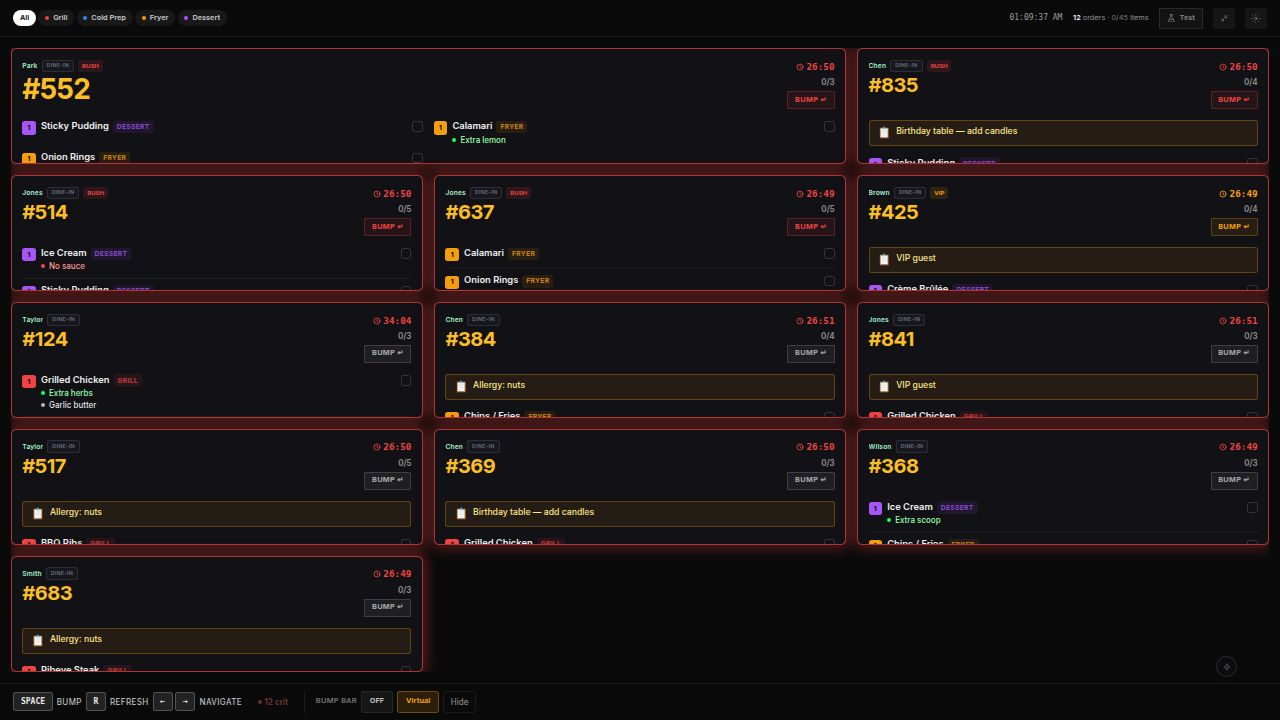
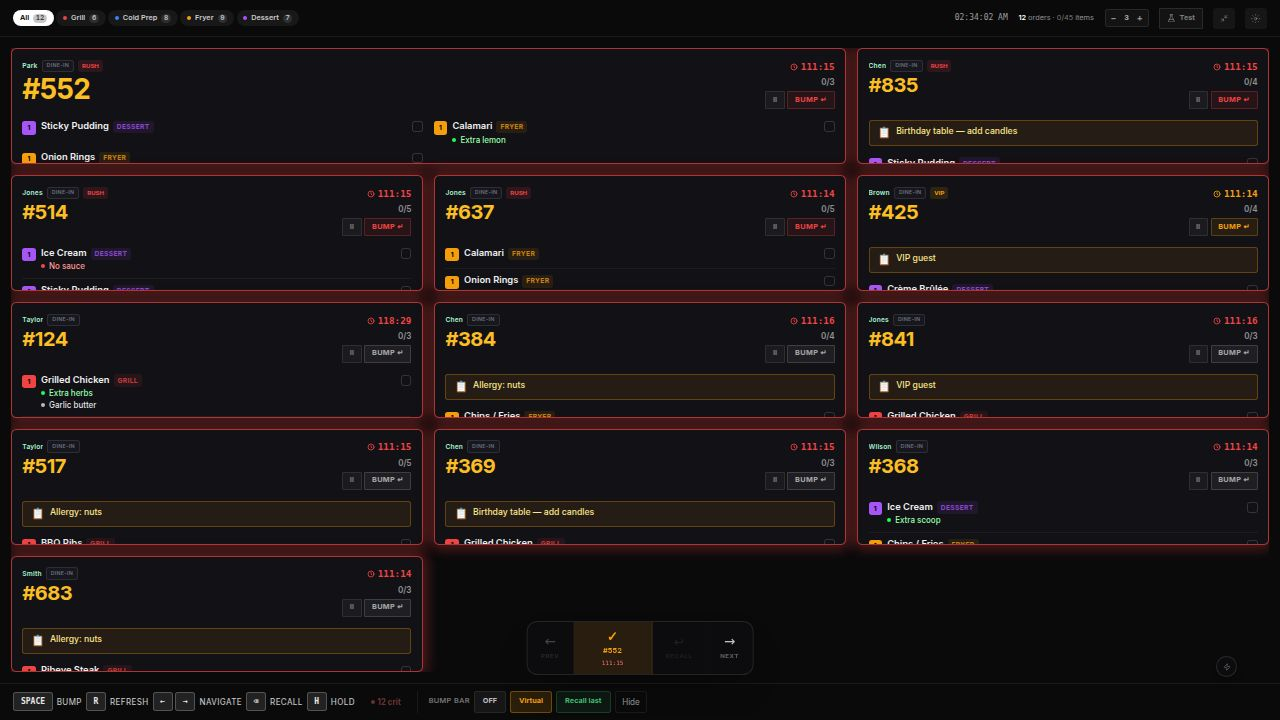
Enhance order processing and add customizable footer appearance
Implement transaction handling for order creation, increase order retrieval limits, tune database connection pooling, enforce request size limits, add rate limiting to sensitive endpoints, and introduce customizable footer background and accent colors in the template builder.

Replit-Commit-Author: Agent
Replit-Commit-Session-Id: b1d019c3-033e-473d-a585-4dcab55ead26
Replit-Commit-Checkpoint-Type: full_checkpoint
Replit-Commit-Event-Id: c192ee70-0e50-4411-bd1b-7257e602c65b
Replit-Commit-Screenshot-Url: https://storage.googleapis.com/screenshot-production-us-central1/90dcdbf0-0649-4dd1-be85-010ba88aa30c/b1d019c3-033e-473d-a585-4dcab55ead26/y2UccWN
Replit-Helium-Checkpoint-Created: true

diff --git a/artifacts/kds/src/pages/template-builder.tsx b/artifacts/kds/src/pages/template-builder.tsx
@@ -42,6 +42,8 @@ type Template = {
   showNotes: boolean;
   showOrderNumber: boolean;
   showCustomerName: boolean;
+  footerBg?: string | null;
+  footerAccentColor?: string | null;
 };
 
 // ─── Meta ─────────────────────────────────────────────────────────────────────
@@ -358,6 +360,90 @@ function ZonePanel({ zone, onChange }: { zone: Zone; onChange: (z: Zone) => void
             </div>
           </div>
         </div>
+      </div>
+    </div>
+  );
+}
+
+// ─── Footer Appearance Panel ──────────────────────────────────────────────────
+
+function FooterAppearanceSection({ template, onChange }: { template: Template; onChange: (t: Template) => void }) {
+  const set = <K extends keyof Template>(k: K, v: Template[K]) => onChange({ ...template, [k]: v });
+  const bg     = template.footerBg ?? "";
+  const accent = template.footerAccentColor ?? "";
+
+  return (
+    <div className="flex flex-col gap-4">
+      <div>
+        <p className="text-[10px] font-bold uppercase tracking-[0.18em] text-white/55 mb-0.5">Footer Appearance</p>
+        <p className="text-[10px] text-white/35 leading-relaxed">
+          Override the footer bar colors on KDS displays. Leave blank to inherit the active theme.
+        </p>
+      </div>
+
+      {/* Background */}
+      <div className="flex flex-col gap-2 p-3 rounded-xl border"
+        style={{ background: "rgba(255,255,255,0.02)", borderColor: "rgba(255,255,255,0.07)" }}>
+        <p className="text-[11px] font-bold text-white/75">Background</p>
+        <div className="flex items-center gap-2">
+          <span className="text-[10px] text-white/50 w-14 shrink-0">Color</span>
+          <ColorSwatch
+            value={bg || "#0a0a0b"}
+            onChange={v => set("footerBg", v)}
+          />
+          <HexInput
+            value={bg}
+            onChange={v => set("footerBg", v || null)}
+          />
+          {bg && (
+            <button onClick={() => set("footerBg", null)}
+              className="text-[10px] text-white/35 hover:text-white/55 transition-colors shrink-0">
+              ✕ Clear
+            </button>
+          )}
+        </div>
+        {bg && (
+          <div className="flex items-center gap-2 mt-1 rounded-lg px-3 py-2 border border-white/[0.1]" style={{ background: bg }}>
+            <span className="text-[11px] text-white/60">Preview</span>
+            <span className="text-[10px] text-white/40 font-mono">{bg}</span>
+          </div>
+        )}
+        {!bg && (
+          <p className="text-[10px] text-white/25 italic">Using theme background</p>
+        )}
+      </div>
+
+      {/* Accent */}
+      <div className="flex flex-col gap-2 p-3 rounded-xl border"
+        style={{ background: "rgba(255,255,255,0.02)", borderColor: "rgba(255,255,255,0.07)" }}>
+        <p className="text-[11px] font-bold text-white/75">Accent Color</p>
+        <p className="text-[9px] text-white/35 italic mb-1">Used for bump bar buttons and active state highlights</p>
+        <div className="flex items-center gap-2">
+          <span className="text-[10px] text-white/50 w-14 shrink-0">Color</span>
+          <ColorSwatch
+            value={accent || "#f59e0b"}
+            onChange={v => set("footerAccentColor", v)}
+          />
+          <HexInput
+            value={accent}
+            onChange={v => set("footerAccentColor", v || null)}
+          />
+          {accent && (
+            <button onClick={() => set("footerAccentColor", null)}
+              className="text-[10px] text-white/35 hover:text-white/55 transition-colors shrink-0">
+              ✕ Clear
+            </button>
+          )}
+        </div>
+        <div className="flex items-center gap-1.5 mt-1">
+          <span className="w-2 h-2 rounded-full shrink-0" style={{ background: accent || "#f59e0b" }} />
+          <span className="text-[11px] font-bold" style={{ color: accent || "#f59e0b" }}>
+            Bump bar active state preview
+          </span>
+        </div>
+        {!accent && (
+          <p className="text-[10px] text-white/25 italic">Using default amber (#f59e0b)</p>
+        )}
       </div>
     </div>
   );
@@ -810,7 +896,12 @@ export default function TemplateBuilderPage() {
             ) : rightPanel === "global" ? (
               <GlobalPanel template={template} onChange={updateTemplate} />
             ) : (
-              <ModifierColorsPanel />
+              <div className="flex flex-col gap-6">
+                <FooterAppearanceSection template={template} onChange={updateTemplate} />
+                <div className="border-t border-white/[0.07] pt-5">
+                  <ModifierColorsPanel />
+                </div>
+              </div>
             )}
           </div>
         </div>

diff --git a/artifacts/api-server/src/routes/orders.ts b/artifacts/api-server/src/routes/orders.ts
@@ -9,6 +9,7 @@ import {
 } from "@workspace/api-zod";
 import { randomUUID } from "crypto";
 import { broadcast } from "../lib/ws";
+import { strictLimiter } from "../middleware/rate-limit";
 
 const router = Router();
 
@@ -41,7 +42,7 @@ router.get("/orders", async (req, res): Promise<void> => {
     .from(ordersTable)
     .where(conditions.length > 0 ? and(...conditions) : undefined)
     .orderBy(desc(ordersTable.createdAt))
-    .limit(100);
+    .limit(500);
 
   // Attach items
   if (orders.length === 0) {
@@ -89,52 +90,56 @@ router.get("/orders", async (req, res): Promise<void> => {
 
 router.post("/orders", async (req, res): Promise<void> => {
   const body = CreateOrderBody.parse(req.body);
-  const orderId = randomUUID();
-  const [order] = await db
-    .insert(ordersTable)
-    .values({
-      id: orderId,
-      storeId: body.storeId,
-      posOrderId: body.posOrderId ?? null,
-      orderNumber: body.orderNumber,
-      status: "pending",
-      priority: body.priority ?? "normal",
-      customerName: body.customerName ?? null,
-      notes: body.notes ?? null,
-    })
-    .returning();
 
-  const items = await Promise.all(
-    (body.items ?? []).map((item, idx) =>
-      db
-        .insert(orderItemsTable)
-        .values({
-          id: randomUUID(),
-          orderId,
-          stationId: item.stationId,
-          name: item.name,
-          quantity: item.quantity,
-          modifiers: item.modifiers ?? [],
-          notes: item.notes ?? null,
-          status: "pending",
-          sortOrder: item.sortOrder ?? idx,
-        })
-        .returning()
-        .then((r) => r[0]),
-    ),
-  );
+  const { order, items } = await db.transaction(async (tx) => {
+    const orderId = randomUUID();
+    const [order] = await tx
+      .insert(ordersTable)
+      .values({
+        id: orderId,
+        storeId: body.storeId,
+        posOrderId: body.posOrderId ?? null,
+        orderNumber: body.orderNumber,
+        status: "pending",
+        priority: body.priority ?? "normal",
+        customerName: body.customerName ?? null,
+        notes: body.notes ?? null,
+      })
+      .returning();
+
+    const itemRows = (body.items ?? []).length > 0
+      ? await tx
+          .insert(orderItemsTable)
+          .values(
+            (body.items ?? []).map((item, idx) => ({
+              id: randomUUID(),
+              orderId,
+              stationId: item.stationId,
+              name: item.name,
+              quantity: item.quantity,
+              modifiers: item.modifiers ?? [],
+              notes: item.notes ?? null,
+              status: "pending" as const,
+              sortOrder: item.sortOrder ?? idx,
+            })),
+          )
+          .returning()
+      : [];
+
+    return { order, items: itemRows };
+  });
 
   const result = { ...order, items, elapsedSeconds: 0 };
 
   broadcast({
     type: "order_created",
-    payload: { orderId, storeId: body.storeId, orderNumber: body.orderNumber },
+    payload: { orderId: order.id, storeId: body.storeId, orderNumber: body.orderNumber },
   });
 
   res.status(201).json(result);
 });
 
-router.post("/orders/clear-all", async (req, res): Promise<void> => {
+router.post("/orders/clear-all", strictLimiter, async (req, res): Promise<void> => {
   const storeId = req.query.storeId as string | undefined;
 
   const conditions = [inArray(ordersTable.status, ["in_progress", "pending"] as const)];
@@ -228,11 +233,12 @@ router.patch("/orders/:id", async (req, res): Promise<void> => {
   res.json(result);
 });
 
-router.post("/orders/:id/bump", async (req, res): Promise<void> => {
+router.post("/orders/:id/bump", strictLimiter, async (req, res): Promise<void> => {
+  const orderId = req.params["id"] as string;
   const [order] = await db
     .select()
     .from(ordersTable)
-    .where(eq(ordersTable.id, req.params.id));
+    .where(eq(ordersTable.id, orderId));
   if (!order) {
     res.status(404).json({ error: "Not found" });
     return;
@@ -240,14 +246,14 @@ router.post("/orders/:id/bump", async (req, res): Promise<void> => {
   const [bumped] = await db
     .update(ordersTable)
     .set({ status: "completed", completedAt: new Date() })
-    .where(eq(ordersTable.id, req.params.id))
+    .where(eq(ordersTable.id, orderId))
     .returning();
   // Mark all items ready
   await db
     .update(orderItemsTable)
     .set({ status: "ready" })
     .where(
-      and(eq(orderItemsTable.orderId, req.params.id), eq(orderItemsTable.status, "pending")),
+      and(eq(orderItemsTable.orderId, orderId), eq(orderItemsTable.status, "pending")),
     );
   const result = await getOrderWithItems(bumped.id);
   broadcast({

diff --git a/artifacts/kds/src/pages/index.tsx b/artifacts/kds/src/pages/index.tsx
@@ -57,6 +57,9 @@ type KdsConfig = {
   showStats: boolean;
   showAgeHeatmap: boolean;
   showFooter: boolean;
+  footerBg?: string | null;
+  footerTextColor?: string | null;
+  footerAccentColor?: string | null;
   showNowServing: boolean;
   showRecentBumped: boolean;
   nowServingExpirySec: number;
@@ -126,6 +129,9 @@ const DEFAULT_CFG: KdsConfig = {
   showStats: false,
   showAgeHeatmap: false,
   showFooter: true,
+  footerBg: null,
+  footerTextColor: null,
+  footerAccentColor: null,
   showNowServing: true,
   showRecentBumped: true,
   nowServingExpirySec: 45,
@@ -1811,6 +1817,11 @@ export default function KdsDisplay() {
   const statsAvg   = allOrders.length ? Math.round(allOrders.reduce((a, o) => a + o.elapsedSec, 0) / allOrders.length) : 0;
   function fmtSec(s: number) { const m = Math.floor(s / 60); return `${m}:${String(s % 60).padStart(2, "0")}`; }
 
+  // Footer accent colour — falls back to amber if not configured
+  const footerAccent = cfg.footerAccentColor ?? "#f59e0b";
+  const footerAccentFaint  = /^#[0-9a-fA-F]{6}$/.test(footerAccent) ? footerAccent + "24" : "rgba(245,158,11,0.14)";
+  const footerAccentBorder = /^#[0-9a-fA-F]{6}$/.test(footerAccent) ? footerAccent + "59" : "rgba(245,158,11,0.35)";
+
   const theme = THEME_META[cfg.theme] ?? THEME_META.ink;
 
   return (
@@ -2184,7 +2195,7 @@ export default function KdsDisplay() {
 
       {/* ── Footer bump bar ──────────────────────────────────────────────── */}
       {cfg.showFooter && (
-        <footer className="min-h-14 flex items-center px-4 md:px-5 py-2 shrink-0 gap-4 md:gap-6 flex-wrap" style={{ background: theme.bg, borderTop: `1px solid ${theme.line}` }}>
+        <footer className="min-h-14 flex items-center px-4 md:px-5 py-2 shrink-0 gap-4 md:gap-6 flex-wrap" style={{ background: cfg.footerBg ?? theme.bg, borderTop: `1px solid ${theme.line}` }}>
           <div className="flex items-center gap-1.5 flex-wrap">
             {(() => {
               const bk = cfg.bumpKey === " " ? "SPACE" : cfg.bumpKey.length > 3 ? cfg.bumpKey : cfg.bumpKey.toUpperCase();
@@ -2252,13 +2263,13 @@ export default function KdsDisplay() {
             <button
               onClick={() => setCfg(c => ({ ...c, bumpBarEnabled: !c.bumpBarEnabled }))}
               className="h-8 px-3 rounded-lg text-[11px] font-bold border transition-all active:scale-95"
-              style={{ background: cfg.bumpBarEnabled ? "rgba(245,158,11,0.14)" : "rgba(255,255,255,0.05)", borderColor: cfg.bumpBarEnabled ? "rgba(245,158,11,0.35)" : "rgba(255,255,255,0.08)", color: cfg.bumpBarEnabled ? "#f59e0b" : "rgba(255,255,255,0.72)" }}>
+              style={{ background: cfg.bumpBarEnabled ? footerAccentFaint : "rgba(255,255,255,0.05)", borderColor: cfg.bumpBarEnabled ? footerAccentBorder : "rgba(255,255,255,0.08)", color: cfg.bumpBarEnabled ? footerAccent : "rgba(255,255,255,0.72)" }}>
               {cfg.bumpBarEnabled ? "ON" : "OFF"}
             </button>
             <button
               onClick={() => setCfg(c => ({ ...c, showVirtualBumpBar: !c.showVirtualBumpBar }))}
               className="h-8 px-3 rounded-lg text-[11px] font-bold border transition-all active:scale-95"
-              style={{ background: cfg.showVirtualBumpBar ? "rgba(245,158,11,0.14)" : "rgba(255,255,255,0.05)", borderColor: cfg.showVirtualBumpBar ? "rgba(245,158,11,0.35)" : "rgba(255,255,255,0.08)", color: cfg.showVirtualBumpBar ? "#f59e0b" : "rgba(255,255,255,0.72)" }}>
+              style={{ background: cfg.showVirtualBumpBar ? footerAccentFaint : "rgba(255,255,255,0.05)", borderColor: cfg.showVirtualBumpBar ? footerAccentBorder : "rgba(255,255,255,0.08)", color: cfg.showVirtualBumpBar ? footerAccent : "rgba(255,255,255,0.72)" }}>
               Virtual
             </button>
             <button

diff --git a/artifacts/api-server/src/lib/ws.ts b/artifacts/api-server/src/lib/ws.ts
@@ -48,8 +48,13 @@ export function setupWebSocketServer(server: Server): void {
     logger.info({ ip: req.socket.remoteAddress }, "WebSocket client connected");
 
     ws.on("message", (data) => {
+      const raw = data.toString();
+      if (raw.length > 65_536) {
+        logger.warn({ ip: req.socket.remoteAddress }, "WS message too large — ignoring");
+        return;
+      }
       try {
-        const msg = JSON.parse(data.toString());
+        const msg = JSON.parse(raw);
         if (msg.type === "register" && msg.payload?.deviceId) {
           const deviceId = msg.payload.deviceId as string;
           deviceRegistry.set(deviceId, ws);

diff --git a/lib/db/src/index.ts b/lib/db/src/index.ts
@@ -10,7 +10,12 @@ if (!process.env.DATABASE_URL) {
   );
 }
 
-export const pool = new Pool({ connectionString: process.env.DATABASE_URL });
+export const pool = new Pool({
+  connectionString: process.env.DATABASE_URL,
+  max: 20,
+  idleTimeoutMillis: 30_000,
+  connectionTimeoutMillis: 5_000,
+});
 export const db = drizzle(pool, { schema });
 
 export * from "./schema";

diff --git a/artifacts/api-server/src/app.ts b/artifacts/api-server/src/app.ts
@@ -44,8 +44,8 @@ app.use(cors({
     : true,
   credentials: true,
 }));
-app.use(express.json());
-app.use(express.urlencoded({ extended: true }));
+app.use(express.json({ limit: "512kb" }));
+app.use(express.urlencoded({ extended: true, limit: "512kb" }));
 
 // ── Rate limiting ─────────────────────────────────────────────────────────────
 // POS webhook routes get a generous limit to allow bursts (e.g. 20 simultaneous

diff --git a/replit.md b/replit.md
@@ -170,6 +170,12 @@ kds start / stop / restart / update
 - `vite.config.ts` must not throw when `PORT`/`BASE_PATH` are unset — Docker build stages run without them; use defaults instead
 - CORS: `app.use(cors())` is wide-open by default. For locked-down deployments, set `CORS_ORIGIN` env var to restrict origins
 - Device status (`online`/`offline`) is now kept in sync in the DB automatically on every WS connect/disconnect
-- Rate limiting: `posWebhookLimiter` (500/min) on `/api/integrations`, `apiLimiter` (300/min) on all `/api` — middleware in `artifacts/api-server/src/middleware/rate-limit.ts`
+- Rate limiting: `posWebhookLimiter` (500/min) on `/api/integrations`, `apiLimiter` (300/min) on all `/api`, `strictLimiter` (60/min) on `/orders/clear-all` and `/orders/:id/bump` — middleware in `artifacts/api-server/src/middleware/rate-limit.ts`
 - Concurrent POS orders: `createOrderFromNormalised` uses `db.transaction()` + `.onConflictDoNothing()` with the `orders_store_pos_order_uniq` partial unique index — handles 20+ simultaneous orders and duplicate webhooks safely
+- Manual `POST /orders` is also wrapped in a DB transaction — order + items insert atomically, preventing partial order state on crash
+- DB connection pool: `max: 20`, `idleTimeoutMillis: 30s`, `connectionTimeoutMillis: 5s` — handles high-concurrency order bursts without exhausting connections
+- JSON body size capped at 512 KB (`express.json({ limit: "512kb" })`) to prevent large-payload DoS
+- WS messages capped at 64 KB per message — oversized frames are logged and dropped in `ws.ts`
+- `GET /orders` limit raised from 100 → 500 to support busy venues with hundreds of simultaneous active orders
+- Footer appearance customisable per-template: `footerBg` (background hex) and `footerAccentColor` (bump bar button accent) stored in KdsConfig and configurable via Template Builder → Colors tab. Both default to theme/amber fallback if not set.
 - Docker build: `Dockerfile.web` builder uses `node:24-slim` (not Alpine) because `pnpm-workspace.yaml` excludes `@rollup/rollup-linux-x64-musl`; Alpine's musl libc cannot load the glibc rollup binary